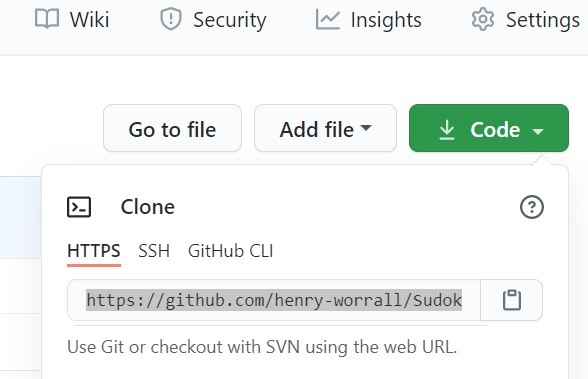
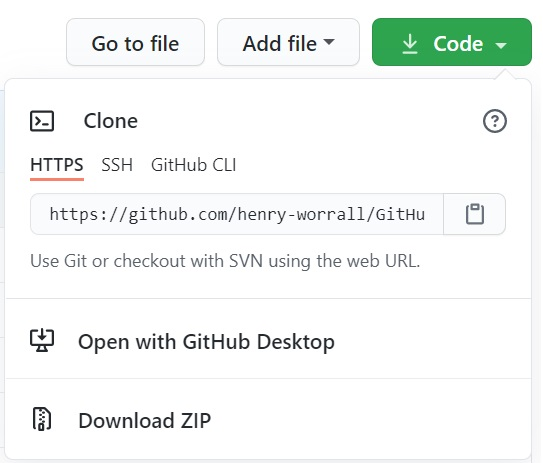
fix typos and images

diff --git a/README.md b/README.md
@@ -1,6 +1,6 @@
 # GitHub Branching Practice Exercise
 
-Welcome to this practice exercise to get you familar with how an organisation might use GitHub for collaboration!
+Welcome to this practice exercise to get you familiar with how an organisation might use GitHub for collaboration!
 
 ## Aim
 
@@ -10,11 +10,13 @@ To provide everyone partaking the exercise to gain an understanding as to what G
 
 Users must have installed Git and GitHub - [Set up Git](https://docs.github.com/en/github/getting-started-with-github/set-up-git)
 
+Please ensure that you have followed all of the 3 steps in this guide. If you don't configure your email and username, then you can't push your changes from the command line.
+
 ## Git and GitHub
 
 Git and GitHub go hand-in-hand together, however, they are not the same thing.
 
-**Git** is an open source program for tracking changes in text files. It was written by the author of the Linux operating system, and is the core technology that GitHub is built on top of.
+**Git** is an open-source programme for tracking changes in text files. It was written by the author of the Linux operating system and is the core technology that GitHub is built on top of.
 
 **GitHub** is a code hosting platform for version control and collaboration. It lets you and others work together on projects from anywhere.
 
@@ -28,15 +30,15 @@ Another key motivation for using Git is that allows for multiple people to work 
 
 **Branching** lets users create a separate 'branch' of work where they can make changes or introduce new features to the product independently of the main version, known as the master branch. Once a feature has been tested, it can be merged back with the latest version of the master branch.
 
-Finally, hosting your code on GitHub is also a great way of showcasing what you're capable of. Whether it's to prospective clients or future employers, showing that you can code is far more persausive than telling them you can. It also shows that you can use version control, which is desired skills by many employers.
+Finally, hosting your code on GitHub is also a great way of showcasing what you're capable of. Whether it's to prospective clients or future employers, showing that you can code is far more persuasive than telling them you can. It also shows that you can use version control, which is desired skills by many employers.
 
 ## Instructions
 
 ### 1. Clone this Repository
 
-To download this repository to your local computer, locate the 'code' button at the top of the page and copy the https address given.
+To download this repository to your local computer, click the 'code' button at the top of the page and copy the HTTPS address given.
 
-[clone-button](screenshots/clone-repo.jpg?raw=true)
+<img src="screenshots/clone-repo.jpg?raw=true" alt="" width="40%"  style="display: block;"/>
 
 Open a terminal (command line) and change to the directory you'd like to work in. Run the *clone* command with the appropriate address. 
     
@@ -44,9 +46,9 @@ Open a terminal (command line) and change to the directory you'd like to work in
 
 You should now be able to see all the files of the repository in your file explorer.
 
-### 2. Create your own branch
+### 2. Create a Branch
 
-**This is really important!** Before you start editing files in a collaborative environment, you must change to an independent branch. This avoids situations where you accidently introduce a bug which breaks the functionality of the entire project. If a bug is introduced on your branch, it won't affect anyone else's work.
+**This is really important!** Before you start editing files in a collaborative environment, you must change to an independent branch. This avoids situations where you accidentally introduce a bug which breaks the functionality of the entire project. If a bug is introduced on your branch, it won't affect anyone else's work.
 
 Create a branch with a descriptive title, e.g. *henry-feature-name*. This is done using the *branch* command.
 
@@ -56,7 +58,7 @@ You can see a list of the available branches with the branch list command:
 
     git branch --list
 
-You should be able to see the master (or main) branch and the branch you have just created. The asterix indicates which branch you are currently on. In order to work independently on your new branch, you need to switch to it using the *checkout* command.
+You should be able to see the master (or main) branch and the branch you have just created. The asterisk indicates which branch you are currently on. In order to work independently on your new branch, you need to switch to it using the *checkout* command.
 
     git checkout henry-bug-fix
 
@@ -70,18 +72,18 @@ For this exercise, try:
 - create a new file
 - edit the `main.py` file. 
 
-The new file can be anything you like: text, Python, Ruby, html, R. It can be as simple or complicated as you like.
+The new file can be anything you like: text, Python, Ruby, HTML, R. It can be as simple or complicated as you like.
 
 Edit the list in the `main.py` file to include your name. If you run the script, you will now see your name included with fellow Graycians!
 
 ### 4. Commit
 
-As with all significant changes you make whilst using Git, you need to commit your changes to your branch. This is a short two part process.  
+As with all significant changes you make whilst using Git, you need to commit your changes to your branch. This is a two-part process.  
 
 1. Stage (i.e. select) the files you wish to commit
 2. Commit the changes
 
-To stage the files you have use the *add* command:
+To stage the files you have to use the *add* command:
 
     # adds all files which have been changed
     git add .
@@ -97,26 +99,26 @@ Once you have selected the appropriate files, commit the changes using the *comm
 
 ### 5. Merge and Integrate Changes
 
-There are many different processes that you could follow it integrate your changes with the master branch. However, I shall describe to you what I consider to be best practice when it comes to working in a collaborative environment. I shall outline the steps below, before walking through them.
+There are many different processes that you could follow it integrate your changes with the master branch. However, I shall describe to you what I consider to be the best practice when it comes to working in a collaborative environment. I shall outline the steps below, before walking through them.
 
 1. Pull the most recent version of the master to your local computer
 2. Merge the master into your branch - best practice!
 3. Push your branch to GitHub
 4. Set up a pull-request - allows for peer review
 
-Firstly, to pull the most recent version of master branch you must ensure you are on the master branch, and then execute the *pull* command.
+Firstly, to pull the most recent version of the master branch you must ensure you are on the master branch. Then execute the *pull* command.
 
     git checkout master
     git pull
 
-If others have made changes to the master whilst you have been building your new feature, this will update local version of the master to what everyone else has, mirroring what is on GitHub.
+If team members have made changes to the master branch whilst you have been building your new feature, this will update the local version of the master to what everyone else has, mirroring what is on GitHub.
 
 Next, you need to merge the most up-to-date version of the master branch into your new feature. To do this, ensure that you are on your branch and execute the *merge* command. You will need to select the branch you wish to merge in.
 
     git checkout henry-bug-fix
     git merge master
 
-*Note that merging the master into your branch is the best practice, since this will only alter your branch and not the master. Therefore, if the merge introduces a bug, it will only affect your branch and not the master.*
+*Note that merging the master into your branch is the best practice since this will only alter your branch and not the master. Therefore, if the merge introduces a bug, it will only affect your branch and not the master.*
 
 Your command line will either tell you that the merge has been automatically completed successfully, or that there have been some conflicts. If the merge tells you that you have a conflict, you will need to amend the conflicting file(s). You can amend them by opening them up in your code editor.
 
@@ -139,21 +141,21 @@ You can now push your merged branch to GitHub using the *push* command.
 
     git push
 
-Your feature is now ready to be peer reviewed and fully integrated with the team's master branch, using a pull request
+Your feature is now ready to be peer-reviewed and fully integrated with the team's master branch, using a pull request
 
 ### 6. Set up a Pull Request
 
-I'll start of by mentioning that a *pull request* differs from the *pull command*. As we saw above, the pull command is issued from the command line and fetches any updates which are on GitHub and adds them to our local repository. 
+It is worth mentioning that a *pull request* differs from the *pull command*. As we saw above, the pull command is issued from the command line and fetches any updates which are on GitHub and adds them to our local repository. 
 
 A pull request allows for peer review of your code and new feature. It allows others to comment and notify you of any bugs or functionality issues that might be present in your code. A pull request is therefore a collaborative feature of GitHub.
 
-If you nagivate back to the GitHub repository in your browser, you will be able to find your branch with your new features coded in. Click the "Compare & pull request" button to initiate a pull request. If you cannot see this button, you can set up a pull request in the "Pull requests" tab.
+If you navigate back to the GitHub repository in your browser, you will be able to find your branch with your new features coded in. Click the "Compare & pull request" button to initiate a pull request. If you cannot see this button, you can set up a pull request in the "Pull requests" tab.
 
-[initiate pull request](screenshots/initiate-pull-request.png?raw=true)
+<img src="screenshots/initiate-pull-request.png?raw=true" alt="" width="100%"  style="display: block;"/>
 
-You can then submit you pull request and leave any comments that you feel appropriate.
+You can then submit your pull request and leave any comments that you feel appropriate.
 
-[submit pull request](screenshots/submit-pull-request.jpg?raw=true)
+<img src="screenshots/submit-pull-request.jpg?raw=true" alt="" width="100%"  style="display: block;"/>
 
 Your pull request will then appear on the "pull requests" tab. Other members of your team can now check out your code, suggest improvements or fixes. If needed, you can make any necessary changes and push them to GitHub (you will not need to create a new pull request). Once everyone is happy with your new branch's feature, someone will authorise the pull request, and your work will be fully integrated with the team's master branch.
 
@@ -161,7 +163,7 @@ You can confirm this by pulling the master branch to your local repository.
 
 ## Outcomes
 
-After completeing the exercise, you should have a good understand the following:
+You have now successfully introduced a new feature into the repository! I hope that after completing this exercise you have a good understanding of the following:
 
 - What Git and GitHub are
 - Why they are useful for version control and collaboration, and
@@ -174,3 +176,5 @@ After completeing the exercise, you should have a good understand the following:
     - merge branches
     - push changes to GitHub
     - make pull requests
+
+If you have any feedback or suggestions about this exercise, then I would love to hear them!
